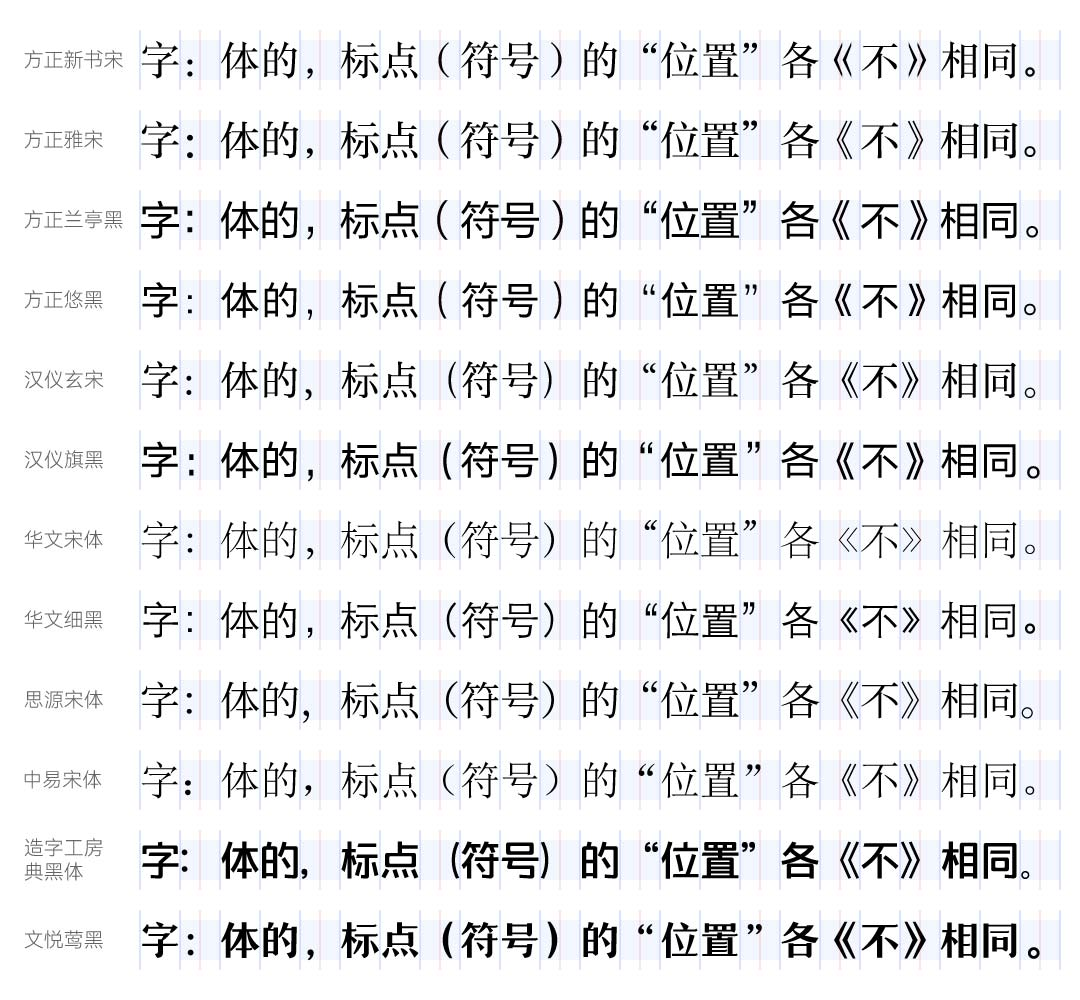
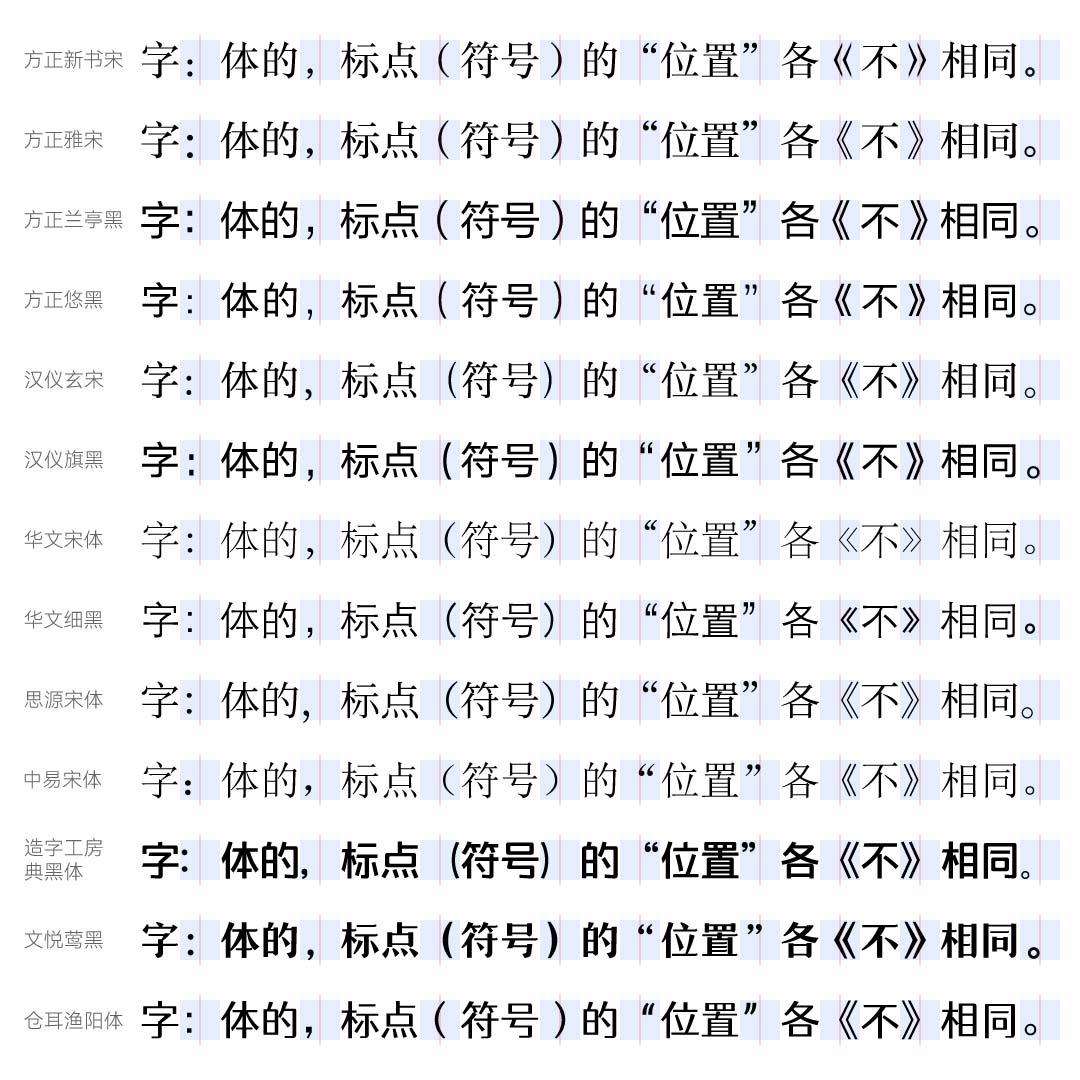
微调内容。更新图片。调整【小】布局边注样式

diff --git a/articles/A3.html b/articles/A3.html
@@ -137,14 +137,14 @@
             <div id="mainContent">
                 <article>
                     <h2 id='标点横向位置设计差异所导致的问题'>一、标点横向位置设计差异所导致的问题</h2>
-                    <p>不同的中文字体有不同的标点设计风格。除去造型上的不同外，它们在位置上也各有差异：有的紧紧贴靠在字框的边缘，有的则更靠近居中的位置，还有的介于两者之间。<sup class="sideNoteMark">@</sup><span class="sideNote"><span class="tabulation">@</span>按照《<cite>标点符号用法</cite>》（<span class="Latin" lang="en">GB/T 15834</span><span class="YiZiXian">—</span><span class="Latin" lang="en">2011</span>）第<span class="Latin" lang="en">5.1</span>条，逗号、句号等标点应位于字框的左下；括号、书名号等标点未明确规定位置（参见<a href="#footnote-number-1" id="footnote-number-1_link-1">注释<span class="Latin" lang="en">1</span></a>），一般习惯上前括号等放置在字框靠右的位置，后括号等放置在字框靠左的位置。日文中标点的位置与之类似。我国的港澳台地区的标点则习惯放在水平垂直都居中的位置。</span></p>
+                    <p>不同的中文字体有不同的标点设计风格。除去造型上的不同外，它们在位置上也各有差异：有的紧紧贴靠在字框的边缘，有的则更靠近居中的位置，还有的介于两者之间。<sup class="sideNoteMark">＋</sup><span class="sideNote" id="＋"><span class="tabulation">＋</span>按照《<cite>标点符号用法</cite>》（<span class="Latin" lang="en">GB/T 15834</span><span class="YiZiXian">—</span><span class="Latin" lang="en">2011</span>）第<span class="Latin" lang="en">5.1</span>条，逗号、句号等标点应位于字框的左下；括号、书名号等标点未明确规定位置（参见<a href="#footnote-number-1" id="footnote-number-1_link-1">注释<span class="Latin" lang="en">1</span></a>），一般习惯上前括号等放置在字框靠右的位置，后括号等放置在字框靠左的位置。日文中标点的位置与之类似。我国的港澳台地区的标点则习惯放在水平垂直都居中的位置。</span></p>
                     <figure><img src="../images/A3/图示_各种字体标点比较.jpg"></figure>
-                    <div class="TuZhu">不同字体的标点在横向上的位置各有差异，大部分靠向字框的一边，也有的靠近字框中间，尤其是方正字体的括号和书名号，明显更靠近中间的位置，另外汉仪旗黑等字体的标点也稍稍靠近中间。</div>
+                    <div class="TuZhu">不同字体的标点在横向上的位置各有差异，大部分靠向字框的一边，也有的靠近字框中间（比如几乎所有的方正字体的括号和书名号），还有的介于两者之间（比如汉仪旗黑）。同一个字体的不同标点的位置也可能设计得不一样。</div>
                     <p>这本身只是风格上的差异，在一般的排版情况下也不会有什么问题。然而，当标点连续出现，或者为了段落左右对齐等原因而要压缩标点字符间距时，这些多样化的设计就可能会导致问题。</p>
-                    <p>现今的计算机软件在排版处理时，几乎都是把标点按照位于一侧二分之一的区域内来处理的。也就是说，这些标点字符实际上只有一侧二分之一个字的宽度的安全区域，剩余二分之一个字的宽度的区域在特定的排版条件下可能会被压缩。<sup class="sideNoteMark">@</sup><span class="sideNote"><span class="tabulation">@</span>还有一种排版处理方法是先默认标点都占半个字宽的位置，再根据需要加入不同宽度的空白。思路不同，效果相同，可能出现的问题也基本相同。</span>这导致了一些位置设计得更靠近中间的标点会出现不理想的排版效果。<sup class='footnoteMark' id='footnote-mark-1'><a href='#footnote-number-1'>1</a></sup></p>
+                    <p>现今的计算机软件在排版处理时，几乎都是把标点按照位于一侧二分之一的区域内来处理的。也就是说，这些标点字符实际上只有一侧二分之一个字的宽度的安全区域，剩余二分之一个字的宽度的区域在特定的排版条件下可能会被压缩。<sup class="sideNoteMark">✽</sup><span class="sideNote"><span class="tabulation">✽</span>还有一种排版处理方法是先默认标点都占半个字宽的位置，再根据需要加入不同宽度的空白。思路不同，效果相同，可能出现的问题也基本相同。</span>这导致了一些位置设计得更靠近中间的标点会出现不理想的排版效果。<sup class='footnoteMark' id='footnote-mark-1'><a href='#footnote-number-1'>1</a></sup></p>
                     <figure><img src="../images/A3/图示_标点的安全区域.jpg"></figure>
                     <figure><img src="../images/A3/图示_标点间距合适的字体.jpg"><img src="../images/A3/图示_标点间距出问题的字体.jpg"></figure>
-                    <div class="TuZhu">在最后这个例子中，括号和书名号与外侧字符的距离比与内侧字符的距离还要小（括号等标点可以距离内侧的文字较近，也可以在内外侧字符之间居中，但距离外侧文字较近是相当奇怪的，也不符合阅读的习惯），两个书名号更是重叠在了一起。现实中，两个标点重叠这种明显的错误通常能在校对的过程中被发现并改正，而其他的问题则隐蔽得多，往往被忽视，或者发现了但不知是何种原因造成的。</div>
+                    <div class="TuZhu">在最后这个例子中，括号和书名号与外侧字符的距离比与内侧字符的距离还要小（括号等标点可以距离内侧的文字较近，也可以在内外侧字符之间居中，但距离外侧文字较近是相当奇怪的，也不符合阅读的习惯），两个书名号更是重叠在了一起。现实中，两个标点重叠这种明显的错误通常能在校对的过程中被发现并改正，而其他的问题则隐蔽得多，往往被忽视，或者虽然发现了但不知是何种原因造成的。</div>
                     <p>在我们的日常生活中所能见到的书籍、杂志、展板等等各类事物上，这种不理想的排版效果比比皆是，一些场景甚至能用怪异来形容。</p>
                     <figure><img src="../images/A3/图示_标点间距问题实例1.jpg"></figure>
                     <div class="TuZhu">左上的例子中，冒号和前引号的距离过近。右上的例子中，前引号距离前方的文字比距离后方的文字还要近。下方的例子中，前括号距离前方的文字比距离后方的文字还要近。</div>
@@ -160,40 +160,40 @@
                     <p>&nbsp;</p>
                     <p style="text-indent: 0; text-align:center; line-height: 0;">◎</p>
                     <p>&nbsp;</p>
-                    <p class="noIndentParagraph">应该说，从设计的角度看，与文字稍稍有些距离的标点在视觉上比紧紧贴住文字的标点更典雅美观。然而，我们的软件在排版时沿用了铅活字时代“一半空间保留，一半空间调整”的思路，这就埋下了隐患。<sup class="sideNoteMark">@</sup><span class="sideNote"><span class="tabulation">@</span>《<cite>标点符号用法</cite>》中第<span class="Latin" lang="en">5.1.11</span>条说明了为了排版美观等需要可适当压缩标点所占的空间，但没说具体方法。实践中一般沿用一直以来的习惯。</span></p>
+                    <p class="noIndentParagraph">应该说，从设计的角度看，与文字稍稍有些距离的标点在视觉上比紧紧贴住文字的标点更典雅美观。</p>
                     <figure><img src="../images/A3/图示_标点与文字稍稍有些距离.jpg"></figure>
+                    <p>然而，我们的软件在排版时沿用了铅活字时代“一半空间保留，一半空间调整”的思路，这就埋下了隐患。<!--<sup class="sideNoteMark">@</sup><span class="sideNote"><span class="tabulation">@</span>《<cite>标点符号用法</cite>》中第<span class="Latin" lang="en">5.1.11</span>条说明了为了排版美观等需要可适当压缩标点所占的空间，但没说具体方法。实践中一般沿用一直以来的习惯。</span>--></p>
                     <p>铅活字时代有实体活字的物理上的限制，如果一个全身的标点太宽，那就要换成二分的标点（也就是“一半空间保留”），有时还可以再加上适当大小的铅空（也就是“一半空间调整”）。这些调整标点所占空间的操作都要一个个手工处理，而且标点必然会整个位于铅字的实体字框内，所以不会出现诸如“括号离外侧文字的距离比内侧文字还要近”之类的问题，更不可能出现字符重叠这种违背物理规律的现象。</p>
                     <figure><img src="../images/A3/图示_排版方法-铅字.jpg"></figure>
                     <p>而到了电脑时代，物理上的限制没有了，设计变得更加自由、灵活、高效，但可能出现的问题也增多了。面对需要调整标点间距的场合，虽然人眼能看到标点的位置，但排版软件不知道标点在哪，它只知道字框的位置，于是仍然按照固定的算法，先保留一半的空间（但标点字符不一定完整出现在了保留的这一半空间内），再调整另一半空间的大小。各种问题因而产生。</p>
                     <figure><img src="../images/A3/图示_排版方法-计算机.jpg"></figure>
-                    <p>那些本身看起来更好的设计，在“一半空间保留，一半空间调整”的方法下反而更容易出问题。<sup class="sideNoteMark">@</sup><span class="sideNote"><span class="tabulation">@</span>这些字符既不一定完整位于一侧二分之一的区域内，也不一定完整位于中间二分之一（即左右各去掉四分之一）的区域内，因而不是改用“居中式标点”的排版算法就能解决这一问题的。</span>要避免这个问题只能采用最保险的设计方法：将所有标点都控制在字框一侧一半的区域内，而且为了确保压缩二分之一的空间之后，标点与前后字符的间距不出问题，还需要让标点的视觉重心不超过字框一侧四分之一的位置。</p>
+                    <p>那些本身看起来更好的设计，在“一半空间保留，一半空间调整”的方法下反而更容易出问题。<sup class="sideNoteMark">＃</sup><span class="sideNote" id="＃"><span class="tabulation">＃</span>这些“更好的设计”中，标点字符既不一定完整位于一侧二分之一的区域内，也不一定完整位于中间二分之一（即左右各去掉四分之一）的区域内，因而不是改用“居中式标点”的排版算法就能解决这一问题的。</span></p>
                     <figure><img src="../images/A3/图示_设计更好的标点反而容易出问题.jpg"></figure>
+                    <p>要避免这个问题只能采用最保险的设计方法：将所有标点都控制在字框一侧二分之一的区域内。而且为了确保压缩二分之一的空间之后，标点与前后字符的间距不出问题，还需要让标点的视觉重心不超过字框一侧四分之一的位置。</p>
                     <figure><img src="../images/A3/图示_标点的位置设计.jpg"></figure>
                     <p><strong>应该让字体设计严格遵循现有的排版算法，还是应该为字体设计的多样性而去开发新的排版算法？</strong>这个问题值得思考。</p>
                     <h2 id='可能的解决方案'>二、可能的解决方案</h2>
                     <p>在上述问题得到真正完美的解决之前，我们可以通过下列方法来尽量规避这一问题。</p>
                     <h3 id='使用方正字体自带的opentype特性'><span class="Latin" lang="en">1.</span>使用方正字体自带的<span class="Latin" lang="en">OpenType</span>特性</h3>
-                    <p>方正的一些字体可以使用自带的“<span class="Latin" lang="en">Adobe punctuation</span>”这一<span class="Latin" lang="en">OpenType</span>特性<sup class="sideNoteMark">@</sup><span class="sideNote"><span class="tabulation">@</span>并不是所有方正字体都包含这一特性。</span>，启用后标点就会缩回到一侧二分之一的位置，不再会出现上述问题。</p>
-                    <p>具体操作方法：对于<span class="Latin" lang="en">InDesign</span>，在“字符”面板右上角菜单，选择“<span class="Latin" lang="en">OpenType</span>—风格组合—<span class="Latin" lang="en">Adobe punctuation</span>”；对于<span class="Latin" lang="en">Illustrator</span>，在“<span class="Latin" lang="en">OpenType</span>”面板，选择“风格组合—<span class="Latin" lang="en">Adobe punctuation</span>”；对于<span class="Latin" lang="en">Word</span>，在“字体”窗口，选择“高级”选项卡，在“<span class="Latin" lang="en">OpenType</span>功能”下的“样式集”下拉菜单中，选择“<span class="Latin" lang="en">1</span>”。其他软件在此不述。</p>
+                    <p>方正的一些字体可以使用自带的“<span class="Latin" lang="en">Adobe punctuation</span>”这一<span class="Latin" lang="en">OpenType</span>特性<sup class="sideNoteMark">※</sup><span class="sideNote"><span class="tabulation">※</span>并不是所有方正字体都包含这一特性。</span>，启用后标点就会缩回到一侧二分之一的位置，不再会出现上述问题。</p>
                     <figure><img src="../images/A3/图示_方正字体OpenType.jpg"></figure>
-                    <p>方正字体的默认标点位置似乎是为了适配方正自家的排版软件而设计的，这个“<span class="Latin" lang="en">Adobe punctuation</span>”特性顾名思义就是为了适配<span class="Latin" lang="en">Adobe</span>的软件的排版功能而提供的选项。<span class="Latin" lang="en">Adobe</span>的软件对标点的排版处理方式就是前文中反复介绍的那种（一些<span class="Latin" lang="en">Adobe</span>的软件允许你自定义标点排版方式），但其实不止是<span class="Latin" lang="en">Adobe</span>的软件采用这种排版算法，包括<span class="Latin" lang="en">Microsoft Word</span>在内的很多其他软件采用的也都是这种排版算法<sup class="sideNoteMark">@</sup><span class="sideNote"><span class="tabulation">@</span>包括这个网站采用的标点处理算法也是这样，可参见“<a href="../Typography_of_this_Site.html#标点符号的排版处理" target="_blank">这个网站的排版（六、标点符号的排版处理）</a>”。</span>（不过一些软件不支持自定义标点排版方式）。</p>
+                    <p>具体操作方法：对于<span class="Latin" lang="en">InDesign</span>，在“字符”面板右上角菜单，选择“<span class="Latin" lang="en">OpenType</span>&#8197;<span class="YiZiXian">—</span>风格组合<span class="YiZiXian">—</span>&#8197;<span class="Latin" lang="en">Adobe punctuation</span>”；对于<span class="Latin" lang="en">Illustrator</span>，在“<span class="Latin" lang="en">OpenType</span>”面板，选择“风格组合<span class="YiZiXian">—</span>&#8197;<span class="Latin" lang="en">Adobe punctuation</span>”；对于<span class="Latin" lang="en">Word</span>，在“字体”窗口，选择“高级”选项卡，在“<span class="Latin" lang="en">OpenType</span>功能”下的“样式集”下拉菜单中，选择“<span class="Latin" lang="en">1</span>”。其他软件在此不述。</p>
+                    <p>方正字体的默认标点位置似乎是为了适配方正自家的排版软件而设计的，这个“<span class="Latin" lang="en">Adobe punctuation</span>”特性顾名思义就是为了适配<span class="Latin" lang="en">Adobe</span>的软件的排版功能而提供的选项。<span class="Latin" lang="en">Adobe</span>的软件对标点的排版处理方式就是前文中反复介绍的那种（一些<span class="Latin" lang="en">Adobe</span>的软件允许你自定义标点排版方式），但其实不止是<span class="Latin" lang="en">Adobe</span>的软件采用这种排版算法，包括<span class="Latin" lang="en">Microsoft Word</span>在内的很多其他软件采用的也都是这种排版算法<sup class="sideNoteMark">⊙</sup><span class="sideNote" id="⊙"><span class="tabulation">⊙</span>包括这个网站采用的标点处理算法也是这样，可参见“<a href="../Typography_of_this_Site.html#标点符号的排版处理" target="_blank">这个网站的排版（六、标点符号的排版处理）</a>”。</span>（不过一些软件不支持自定义标点排版方式）。</p>
                     <h3 id='更换字体，尤其是标点部分的字体'><span class="Latin" lang="en">2.</span>更换字体，尤其是标点部分的字体</h3>
-                    <p>这个解决方案简单、粗暴，但有效。你可以整体换成没有上述问题的字体，也可以用<span class="Latin" lang="en">InDesign</span>里的复合字体功能（或者其他软件里的类似功能）只替换标点部分的字体。<sup class="sideNoteMark">@</sup><span class="sideNote"><span class="tabulation">@</span>替换时请注意字体的版权问题，理论上即便只使用一个字体的标点部分的字符，性质仍然属于使用这个字体。</span></p>
+                    <p>这个解决方案简单、粗暴，但有效。你可以整体换成没有上述问题的字体，也可以用<span class="Latin" lang="en">InDesign</span>里的复合字体、正则表达式等功能（或者其他软件里的类似功能）只替换标点部分的字体。<sup class="sideNoteMark">＋&#65279;＋</sup><span class="sideNote" id="＋＋"><span class="tabulation">＋&#65279;＋</span>替换时请注意字体的版权问题，理论上即便只使用一个字体的标点部分的字符，性质仍然属于使用这个字体。</span></p>
                     <h3 id='专门仔细调整标点间距'><span class="Latin" lang="en">3.</span>专门仔细调整标点间距</h3>
                     <p>利用<span class="Latin" lang="en">InDesign</span>中的标点挤压集（新版称“中文排版集”）功能或者其他软件里的类似功能，针对你选用的字体专门精心调整标点间距。<sup class='footnoteMark' id='footnote-mark-2'><a href='#footnote-number-2'>2</a></sup></p>
-                    <p>具体操作方法为：在“段落”面板中的“标点挤压集”下拉菜单中选择相应的设定。</p>
+                    <!-- <p>在<span class="Latin" lang="en">InDesign</span>中的具体操作方法为：在“段落”面板中的“标点挤压集”下拉菜单中选择相应的设定。</p> -->
                     <p>这个方法的普适性较好，但工作量较大。对于排版质量有较高要求的作品可以尝试。不过，考虑到软件的排版算法通常把括号、书名号、引号等归为一类，使用相同的算法处理，但同一个字体里的这些符号的位置不见得相同，因而这个方法不一定能解决所有问题，有时或许要配合下面的正则表达式方法才能较好地处理每一个标点的间距。</p>
                     <h3 id='使用正则表达式批量设定样式'><span class="Latin" lang="en">4.</span>使用正则表达式批量设定样式</h3>
                     <p>利用<span class="Latin" lang="en">InDesign</span>中的正则表达式（软件中称“<span class="Latin" lang="en">GREP</span>样式”）或者其他软件里的类似功能，更加精确地选中特定的字符，并分别设定具体样式。</p>
                     <p>例如，在<span class="Latin" lang="en">InDesign</span>中，对单个字符调整字符间距的效果是改变这个字符和它后面的字符的间距。于是，我们可以选中所有的“前括号”和“后括号前面的一个字符”，并减小它们的字符间距，同时选中所有的“后括号”和“前括号前面的一个字符”并增加它们的字符间距，可以在一定程度上解决上述问题。（当字符处于行首或行尾时，该方法效果不佳。）</p>
-                    <p>具体方法为：在“段落”面板右上角菜单中，选择“<span class="Latin" lang="en">GREP</span>样式”，进入相应的窗口进行设定。附：选中所有“前括号”（这里把书名号也当作括号，后同）的正则表达式是<code>[（《<cite>]</code>，选中所有“后括号前面的一个字符”的正则表达式是<code>\S(?=[）</cite>》])</code>；选中所有“后括号”的正则表达式是<code>[）</cite>》]</code>，选中所有“前括号前面的一个字符”的正则表达式是<code>\S(?=[（《<cite>])</code>。</p>
                     <figure><img src="../images/A3/图示_正则表达式调标点横向位置.jpg"></figure>
+                    <p>在<span class="Latin" lang="en">InDesign</span>中的具体方法为：在“段落”面板右上角菜单中，选择“<span class="Latin" lang="en">GREP</span>样式”，进入相应的窗口进行设定。附：选中所有“前括号”（这里把书名号也当作括号，后同）的正则表达式是<code>[（《<cite>]</code>，选中所有“后括号前面的一个字符”的正则表达式是<code>\S(?=[）</cite>》])</code>；选中所有“后括号”的正则表达式是<code>[）</cite>》]</code>，选中所有“前括号前面的一个字符”的正则表达式是<code>\S(?=[（《<cite>])</code>。</p>
                     <h3 id='推动制定相关标准，确立中文字体与排版软件的设计规范'><span class="Latin" lang="en">5.</span>推动制定相关标准，确立中文字体与排版软件的设计规范</h3>
-                    <p>最有效也是最难的方法是建立更详尽的相关规范标准，让各字体设计公司和排版软件公司的产品能完全互相兼容。<sup class="sideNoteMark">@</sup><span class="sideNote"><span class="tabulation">@</span>现有的《<cite>标点符号用法</cite>》中关于标点的位置以及调整标点间距的方法的说明太笼统，远不足以为具体的字体设计实践和计算机软件开发提供参考。</span>这样可以确保在默认状态下，任意字体在任意排版软件里的效果都至少是“正常”的，省得一次次地检查选用的字体以及相应的排版是否有问题。而对于想要做出一些多样化的效果的情况来说，也依然可以通过相应的字体特性或排版功能来为设计增加更多的个性和创意。</p>
+                    <p>最有效也是最难的方法是建立更详尽的相关规范标准，让各字体设计公司和排版软件公司的产品能完全互相兼容。<sup class="sideNoteMark">✽&#65279;✽</sup><span class="sideNote"><span class="tabulation">✽&#65279;✽</span>现有的《<cite>标点符号用法</cite>》中关于标点的位置以及调整标点间距的方法的说明太笼统，远不足以为具体的字体设计实践和计算机软件开发提供参考。例如，《<cite>标点符号用法</cite>》第<span class="Latin" lang="en">5.1.11</span>条中说明了为了排版美观等需要可适当压缩标点所占的空间，但没说具体方法，实践中一般沿用铅活字时代以来的习惯。再加上对于标点位置的说明也不够明确，于是就出现了前文所述的种种问题。</span>这样可以确保在默认状态下，任意字体在任意排版软件里的效果都至少是“正常”的，省得一次次地检查选用的字体以及相应的排版是否有问题。而对于想要做出一些多样化的效果的情况来说，也依然可以通过相应的字体特性或排版功能来为设计增加更多的个性和创意。</p>
                     <h2 id='总结'>三、总结</h2>
                     <p>以上所讨论的内容是当今中文排版实践中容易遇到的诸多问题之一。这个问题长期以来都被忽视，一直没有很好地解决。看似微不足道的标点间距，其背后隐藏的是字体设计与排版设计互相缺少配合与照应的问题，是计算机软件工具之间缺乏统一标准进而影响工作效率与质量的问题，是设计的多样性与通用性、高效性的矛盾的问题。这些深层次的原因是不应该被忽视的。</p>
-
-
                     <hr>
                     <section id='footnotesArea'>
                         <h2 id='注释'>注　释</h2>

diff --git a/articles/A2.html b/articles/A2.html
@@ -156,7 +156,7 @@
                     <p>理论上，只要计算出每张纸上“黑色”部分的面积，把它们相加，就是总的油墨用量。至于“白色”部分有多少，以及黑白的比例关系如何，完全无关紧要。<sup class="sideNoteMark">✽</sup><span class="sideNote"><span class="tabulation">✽</span>实际的油墨用量受到诸多因素影响。比如，手写时笔画交叉的部分会被重复着墨，而不同的打印机<span class="FenGeHao">／</span>印刷机的原理又各不相同，无法一概而论。这里只计算理论值。</span></p>
                     <p>按照这个思路，我们可以用同一份文件的不同文字版本来测试一下中文是否省油墨。《<cite>联合国宪章</cite>》<sup class='footnoteMark' id='footnote-mark-3'><a href='#footnote-number-3'>3</a></sup>（包括中、英、法、俄、西班牙、阿拉伯文版本）是一个不错的选择，它的翻译的一致性和准确性有较高保障，符合控制变量的要求。</p>
                     <h3 id='实验选用的字体与排版方式'><span class="Latin">1. </span>实验选用的字体与排版方式</h3>
-                    <p>我们为中文和西文分别选择<span class="Latin" lang="en">5</span>个字体来做测试，这里只测试打印文件较为常用的字体<sup class="sideNoteMark">＃</sup><span class="sideNote"><span class="tabulation">＃</span>其实我不知道大家打印文件一般用什么字体，我猜的。</span>。它们分别是：中易宋体、华文宋体、中易仿宋、华文楷体、方正中等线；<sup class="sideNoteMark">※</sup><span class="sideNote" id="※"><span class="tabulation">※</span>“中易宋体”即<span class="Latin" lang="en">Windows</span>操作系统自带的“宋体”，由中易公司开发，因而通常称为中易宋体。“华文宋体”为微软<span class="Latin" lang="en">Office</span>系列软件附带的字体，另外<span class="Latin" lang="en">Mac</span>操作系统自带的“宋体”其实也是华文宋体，只是换了个名字；两个操作系统上相同名称的字体实质上由两家不同的公司开发，拥有不同的造型，有时会引起困惑。“中易仿宋”即<span class="Latin" lang="en">Windows</span>操作系统自带的“仿宋”，由中易公司开发，其前身是“仿宋_GB2312”。“方正中等线”即微软<span class="Latin" lang="en">Office</span>系列软件附带的“等线”字体。</span><span class="Latin" lang="en">Times New Roman</span>、<span class="Latin" lang="en">Garamond</span><sup class="sideNoteMark">⊙</sup><span class="sideNote" id="⊙"><span class="tabulation">⊙</span>由<span class="Latin" lang="en">Monotype</span>公司设计。不过似乎<span class="Latin" lang="en">Adobe Garamond</span>更为经典。</span>、<span class="Latin" lang="en">Centaur</span>、<span class="Latin" lang="en">Palatino</span>、<span class="Latin" lang="en">Calibri</span>。其中，<span class="Latin" lang="en">Centaur</span>字体没有西里尔字母，<span class="Latin" lang="en">Garamond</span>、<span class="Latin" lang="en">Centaur</span>、<span class="Latin" lang="en">Palatino</span>三个字体没有阿拉伯字母，相对应的测试直接跳过。</p>
+                    <p>我们为中文和西文分别选择<span class="Latin" lang="en">5</span>个字体来做测试，这里只测试打印文件较为常用的字体<sup class="sideNoteMark">＃</sup><span class="sideNote"><span class="tabulation">＃</span>其实我不知道大家打印文件一般用什么字体，我猜的。</span>。它们分别是：中易宋体、华文宋体、中易仿宋、华文楷体、方正中等线；<sup class="sideNoteMark">※</sup><span class="sideNote" id="※"><span class="tabulation">※</span>“中易宋体”即<span class="Latin" lang="en">Windows</span>操作系统自带的“宋体”，由中易公司开发，因而通常称为中易宋体。“华文宋体”为微软<span class="Latin" lang="en">Office</span>系列软件附带的字体，另外<span class="Latin" lang="en">Mac</span>操作系统自带的“宋体”其实也是华文宋体，只是换了个名字；两个操作系统上相同名称的字体实质上由两家不同的公司开发，拥有不同的造型，有时会引起困惑。“中易仿宋”即<span class="Latin" lang="en">Windows</span>操作系统自带的“仿宋”，由中易公司开发，其前身是长城公司开发的“仿宋_GB2312”。“方正中等线”即微软<span class="Latin" lang="en">Office</span>系列软件附带的“等线”字体。</span><span class="Latin" lang="en">Times New Roman</span>、<span class="Latin" lang="en">Garamond</span><sup class="sideNoteMark">⊙</sup><span class="sideNote" id="⊙"><span class="tabulation">⊙</span>由<span class="Latin" lang="en">Monotype</span>公司设计。不过似乎<span class="Latin" lang="en">Adobe Garamond</span>更为经典。</span>、<span class="Latin" lang="en">Centaur</span>、<span class="Latin" lang="en">Palatino</span>、<span class="Latin" lang="en">Calibri</span>。其中，<span class="Latin" lang="en">Centaur</span>字体没有西里尔字母，<span class="Latin" lang="en">Garamond</span>、<span class="Latin" lang="en">Centaur</span>、<span class="Latin" lang="en">Palatino</span>三个字体没有阿拉伯字母，相对应的测试直接跳过。</p>
                     <p>由于只是为了测试油墨消耗量，因而这里采用相当极端的排版方法：</p>
                     <ol start=''>
                         <li>

diff --git a/styles/additional/u-Typography-A3-additional.css b/styles/additional/u-Typography-A3-additional.css
@@ -36,7 +36,12 @@ See the Mulan PSL v2 for more details. */
 宽度660—1020的窗口，或经过1.25倍放大的宽度825—1275的窗口
 正文每行27字，字号20。*/
 @media screen and (min-width: 680px) and (max-width: 1040px) {
-	
+	#＋,#＃,#⊙,#＋＋{
+		width: 18rem;
+	}
+	#专门仔细调整标点间距{
+		margin-top: 5rem;
+	}
 }
 /* 【5】#############################
 宽度小于660的窗口，或经过1.25倍放大的宽度小于825的窗口

diff --git a/styles/additional/u-Typography-A2-additional.css b/styles/additional/u-Typography-A2-additional.css
@@ -30,7 +30,7 @@ See the Mulan PSL v2 for more details. */
 		margin-top: 0.75rem;
 	}
 	#⊙ {
-		margin-top: 17.5rem;
+		margin-top: 18.75rem;
 	}
 }
 /* 【3】#############################
